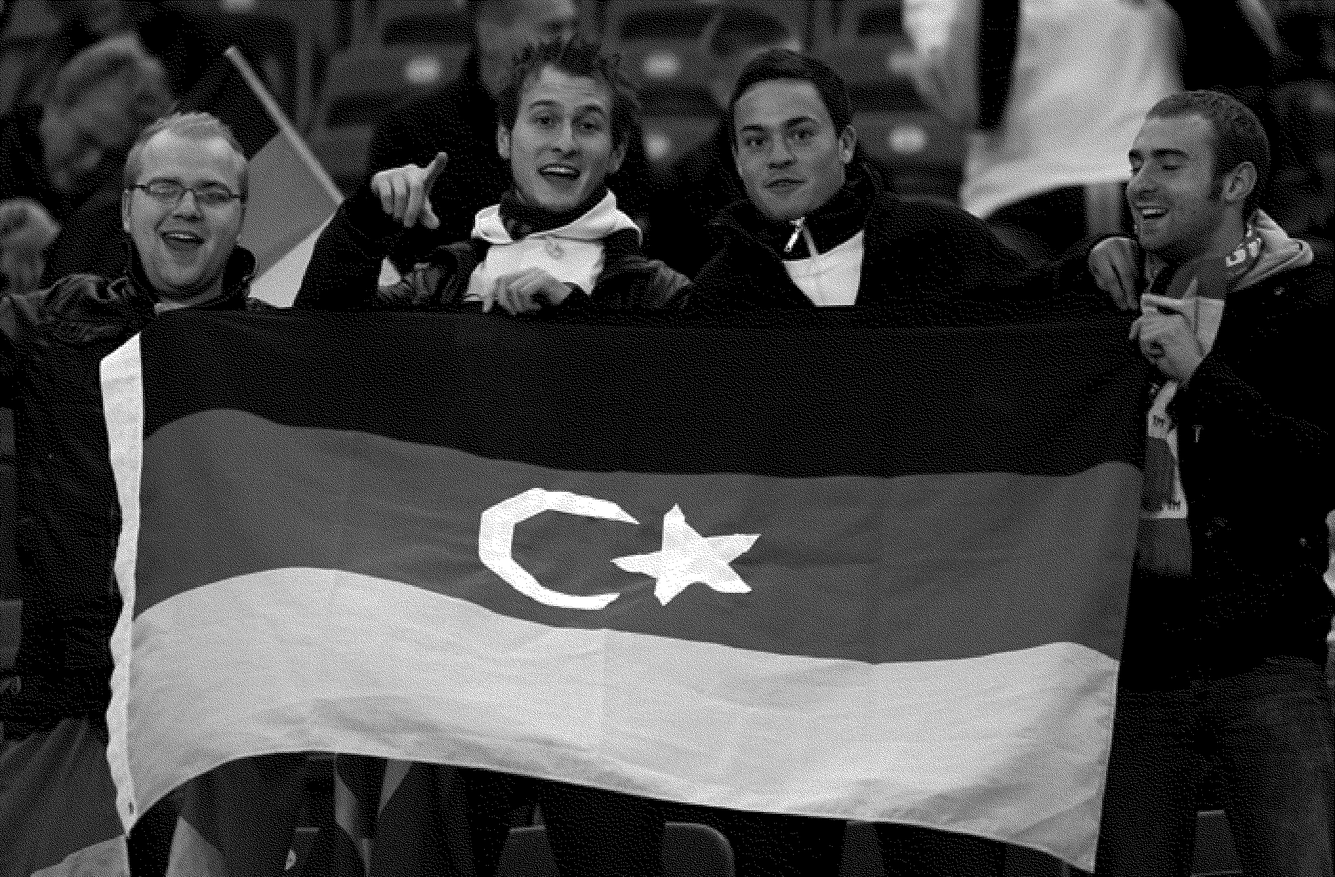
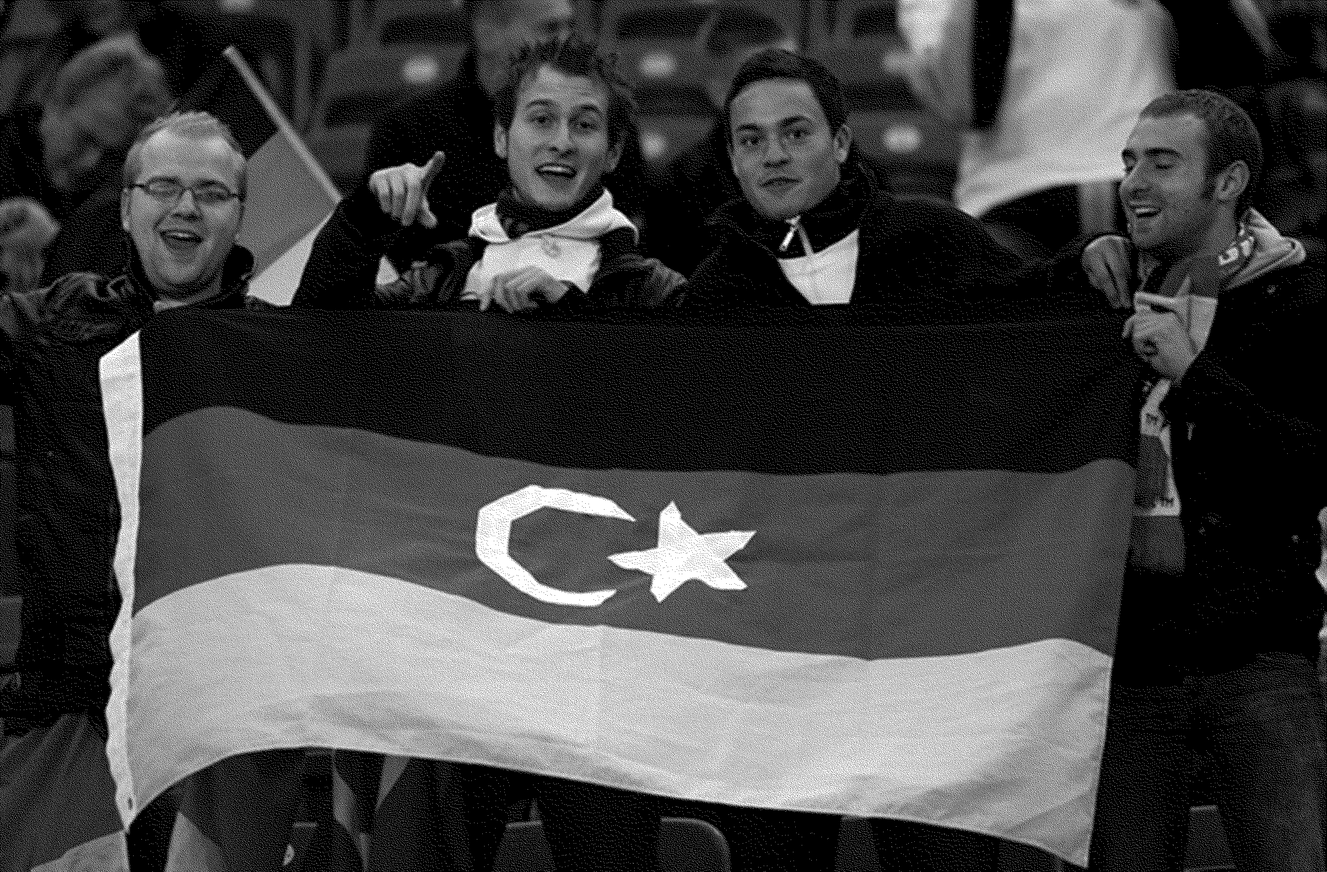
xxxxxx
xxxxx

diff --git a/css/style.css b/css/style.css
@@ -22,15 +22,16 @@ nav{
 	text-transform: uppercase;
 	font-family: Helvetica, sans-serif;
 	letter-spacing: 0.04em;
-	top: 10px;
-	color: white;
+	top: 15px;
+	z-index: 999;
+	
 	
 }
 
 footer{
 	font-family: Helvetica, sans-serif;
 	position: fixed;
-	bottom: 30px;
+	bottom: 15px;
 	text-align: left;
 	left: 10px;
 	width: 250px;
@@ -40,7 +41,7 @@ footer{
 	text-align: left;
 	text-transform: uppercase;;
 	letter-spacing: 0.04em;
-	padding-left: 20px;
+	padding-left: 15px;
 	
 }
 
@@ -52,7 +53,7 @@ titel{
 	color: white;
 	margin-top: -400px;
 	border: solid white 2px;
-	font-size: 55px;
+	font-size: 60px;
 	width: 60%;
 	margin-bottom: 0px;
 	line-height: 68px;
@@ -70,16 +71,27 @@ ondertitel{
 	color: white;
 	text-align: center;
 	border: solid white 2px;
-	margin-top: 50px;
-	width: 60%;
+	margin-top: 70px;
+	width: 70%;
 	font-size: 40px;
 	margin-bottom: -10px;
 	line-height: 60px;
 	text-transform: uppercase;;
 	letter-spacing: 0.04em;
-	transform: rotate(-11deg);
+	transform: rotate(-10deg);
 	margin-right:auto;
     margin-left: auto;
+}
+
+img {
+    width:64%;
+    display: block;
+    height: auto;
+    margin-right:auto;
+    margin-left: auto;
+    margin-bottom: 30px;
+    margin-top: 20px;
+    position: inherit;
 }
 
 
@@ -88,12 +100,14 @@ article {
 	font-family: 'Noto Sans', sans-serif;
 	font-size: 17px;
 	color: black;
+	z-index: 1;
 }
 
 li {
     list-style: none;
     margin-bottom: 8px;
     color: white;
+
 }
 
 
@@ -154,7 +168,8 @@ h6{
 
 
 ul, ol {
-    padding-left: 20px;
+    padding-left: 15px;
+    z-index: 999;
 }
 
 
@@ -196,12 +211,10 @@ a{
 	color:black;
 	text-decoration: none;
 	cursor: url(http://payload194.cargocollective.com/1/6/220116/6186237/cursor.gif), auto;
+	
 }
 
 
-.custom {
-   cursor: url('cursor.png'), auto;
-}
 
 a:hover{
 	color: black;	
@@ -226,17 +239,6 @@ p {
 
 /* This makes the images scale to the full width of the page */
 
-
-
-img {
-    width:60%;
-    display: block;
-    height: auto;
-    margin-right:auto;
-    margin-left: auto;
-    margin-bottom: 30px;
-    margin-top: 20px;
-}
 
 
 #headerimg {
@@ -304,6 +306,57 @@ footer{
 	bottom: 20px;
 	left: 0px;
 }
+
+img {
+    width:70%;
+    display: block;
+    height: auto;
+    margin-right:auto;
+    margin-left: auto;
+    margin-bottom: 30px;
+    margin-top: 20px;
+    margin-right: 80px;
+}
+
+titel{
+	font-family: Helvetica, sans-serif;
+	font-weight: bold;
+	display: inherit;
+	text-align: center;
+	color: white;
+	margin-top: -230px;
+	border: solid white 2px;
+	font-size: 40px;
+	width: 60%;
+	margin-bottom: 0px;
+	line-height: 48px;
+	text-transform: uppercase;;
+	letter-spacing: 0.04em;
+	transform: rotate(6deg);
+	margin-right:auto;
+    margin-left: auto;
+}
+
+ondertitel{
+	font-family: Helvetica, sans-serif;
+	font-weight: bold;
+	display: block;
+	color: white;
+	text-align: center;
+	border: solid white 2px;
+	margin-top: 50px;
+	width: 70%;
+	font-size: 25px;
+	margin-bottom: -10px;
+	line-height: 35px;
+	text-transform: uppercase;;
+	letter-spacing: 0.04em;
+	transform: rotate(-6deg);
+	margin-right:auto;
+    margin-left: auto;
+}
+
+
 
 
 article {
@@ -437,10 +490,58 @@ footer{
 display: none;
 }
 
+img {
+    width:100%;
+    display: block;
+    height: auto;
+    margin-right:auto;
+    margin-left: auto;
+    margin-bottom: 30px;
+    margin-top: 0px;
+}
+
+titel{
+	font-family: Helvetica, sans-serif;
+	display: inherit;
+	text-align: center;
+	color: white;
+	font-weight: 200;
+	margin-top: -90px;
+	border: solid white 1px;
+	font-size: 18px;
+	width: 90%;
+	margin-bottom: 0px;
+	line-height: 22px;
+	text-transform: uppercase;;
+	letter-spacing: 0.04em;
+	transform: rotate(2deg);
+	margin-right:auto;
+    margin-left: auto;
+}
+
+ondertitel{
+	font-family: Helvetica, sans-serif;
+	font-weight: 200;
+	display: block;
+	color: white;
+	text-align: center;
+	border: solid white 1px;
+	margin-top: 10px;
+	width: 60%;
+	font-size: 15px;
+	margin-bottom: -10px;
+	line-height: 17px;
+	text-transform: uppercase;;
+	letter-spacing: 0.04em;
+	transform: rotate(-3deg);
+	margin-right:auto;
+    margin-left: auto;
+}
+
 
 article {
 	margin-top: 25px;
-	font-family: 'Noto Sans', sans-serif;
+	font-family: Helvetica, sans-serif;
 	font-size: 15px;
 }
 
@@ -452,7 +553,7 @@ li {
 
 h1, h2, h3, h4,h5, h6 {
     margin: 20px 55px;
-	font-family: 'Noto Sans', sans-serif;
+	font-family: Helvetica, sans-serif;
 	color: black;
 }
 
@@ -470,6 +571,8 @@ h2{
 	font-size: 20px;
 	color: black;
 	width: 80%;
+	margin-bottom: -20px;
+	margin-top: 10px;
 	
 }
 

diff --git a/index.html b/index.html
@@ -100,7 +100,7 @@
 		</div>
 		<br/>
 		<br/>
-			
+				
             <p>Afgelopen zomer (2014) keek ik, zoals elke vier jaar, weer vol verwachting en spanning naar één van de grootste evenementen ter wereld; het WK voetbal. Ik houd van het spelletje, zowel om zelf te beoefenen als om het te aanschouwen. Op nationaal clubniveau heb ik een niet nader te noemen voorkeur, ik wil rivaliserende supporters tenslotte niet afschrikken, maar ik zou mijzelf niet betitelen als een <i>diehard</i> fan. Echter wanneer het Nederlands Elftal om de twee jaar strijdt om de Europese beker of het Wereldkampioenschap, vertoon ik trekjes die bij de meest doorgewinterde supporter niet zouden misstaan. En wellicht nog opmerkelijker; met mij velen anderen, waarvan een groot deel zich normaliter zelfs amper met voetbal bezig houdt. De WK-finale is door bijna een miljard mensen bekeken, hetgeen betekent dat dit de grootste simultane menselijke collectieve ervaring ooit is. Mannen en vrouwen die van hun leven nog geen voetbalwedstrijd hebben uitgekeken, supporten nagelbijtend en vuilbekkend voor ‘hun’ team, alsof ze nooit anders deden. Wat beweegt deze massa om zich plots in zulke grote getallen als dusdanig te gedragen? </p>
 
 <p>Amper bekomen van de immense teleurstelling vanwege de uitschakeling van het Nederlands Elftal in de halve eindstrijd, begon ik mijzelf meer soortgelijke vragen te stellen omtrent dit culturele fenomeen. Waarom voelde ik me oprecht gelukkig en blij wanneer het Nederlands Elftal zijn wedstrijd winnend afsloot, maar ook intens ongelukkig als ‘we’ verloren? En wat zijn de oorzaken dat een sport waar tweeëntwintig volwassen mannen achter een bal aanrennen is uitgegroeid tot een massaal wereldwijd collectief spektakel, in een tijd waar individualisme de dans leidt. </p>
